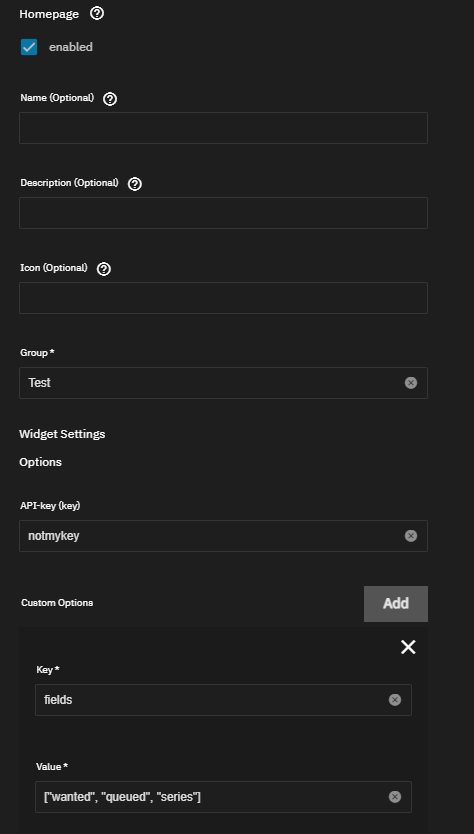
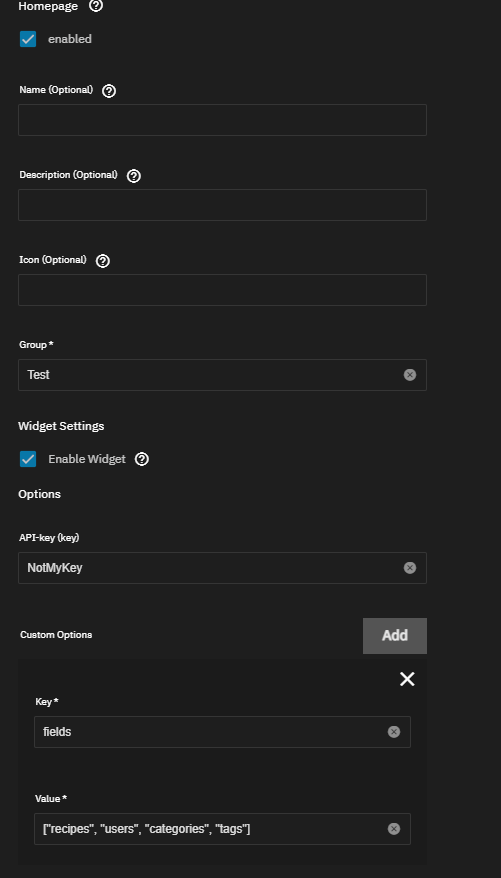
Finals

diff --git a/charts/stable/homepage/docs/hp-integration.md b/charts/stable/homepage/docs/hp-integration.md
@@ -14,17 +14,6 @@ WebSite <https://gethomepage.dev/>
 
 ### Getting Started  
 
-   Install Truecharts Homepage and enable code-server addon. for this guide i'll just be using ip:port
-  ![code-server section](img/image.png)
-
-  put in the IP:port in to your browser. the IP will depend on your setup but usually the scale IP  
-
-  once in code server under app/config you will see the following files these will allow you to manipulate many aspects. but first we will turn on homepage kube support by editing kubernetes.yaml, Be aware you must open the homepage website at least once in a browser before the kubernetes.yaml file will be available to edit
-
-  For Scale users you will enter ```mode: default``` Native Kubernetes & Helm users may need to user ```mode: cluster```  which will use a service account  
-  
-![kube yaml edit](img/kubeyml.png)
-
 <details>
 <summary> ⚠ Advanced Section regarding metrics server for Scale users⚠ </summary>  
 
@@ -70,17 +59,17 @@ and you will be able to have outputs similar to this to see mem and CPU
 
 </details>
 <br>
-We can now enable our first integration!
 
 ### Enabling Integration in charts  
 
-Edit and existing chart with ingress and go to the ingress section and enable the homepage integration checkbox  
+Edit an existing chart with ingress, go to the ingress section and enable the homepage integration checkbox  
 
 :white_check_mark:Name can be left blank or use the name of your choice.  
 :white_check_mark:Description can be left blank or you can use the description of your choice  
 :exclamation: Group is important and required it will allow you to group the different apps together so for example all your media apps you may want in a group called "Media". You can also use the group names you may have already defined in services.yaml and it will add the discovered app to that group
 :exclamation: Api Key is where you will enter an api key for your application if needed, if this is a new install and you do not have an api key yet, you can come back and add this  
 :white_check_mark: adding custom options will allow you to add fields to the widget. or define username/password when there is no API key to apply. you can see the various fields available in the widgets section of the homepage documentation at their site above
+:white_check_mark: Enable Widget.  if the app does not have a widget option set. leave this unchecked
 
 ![integration options](img/intop.png)
 
@@ -102,8 +91,8 @@ you can also use settings.yaml to change the group layout from a single column t
 ### Known issues and Limitations
   
 - When Using the integration to detect your apps, applications may change places with in the group on each restart of homepage as it populates in the order it detects the application  
-- Some Applications may have incorrect widget type
+- Some Applications may have incorrect widget type, pleas open a bug report on our [GitHub](https://github.com/truecharts/charts/issues)
 - When using the integration you will not be able to control settings on a per app basis as far as auto showing/hiding stats or chaining the status indicator or adding a ping with ms response time readout
-- External Services does have the options for integration but may not be fully functional  
-- Applications that have different names from their default (IE second deployments) may not fully work at this time.  
+- External Services is not supported at this time despite the options being present
 - If you define a group services.yaml it must contain at least one manual entry otherwise it will interfere with widget API calls and cause an API JSON error
+- Custom-App will report Pod Status and stats but has no widget support at this time.
